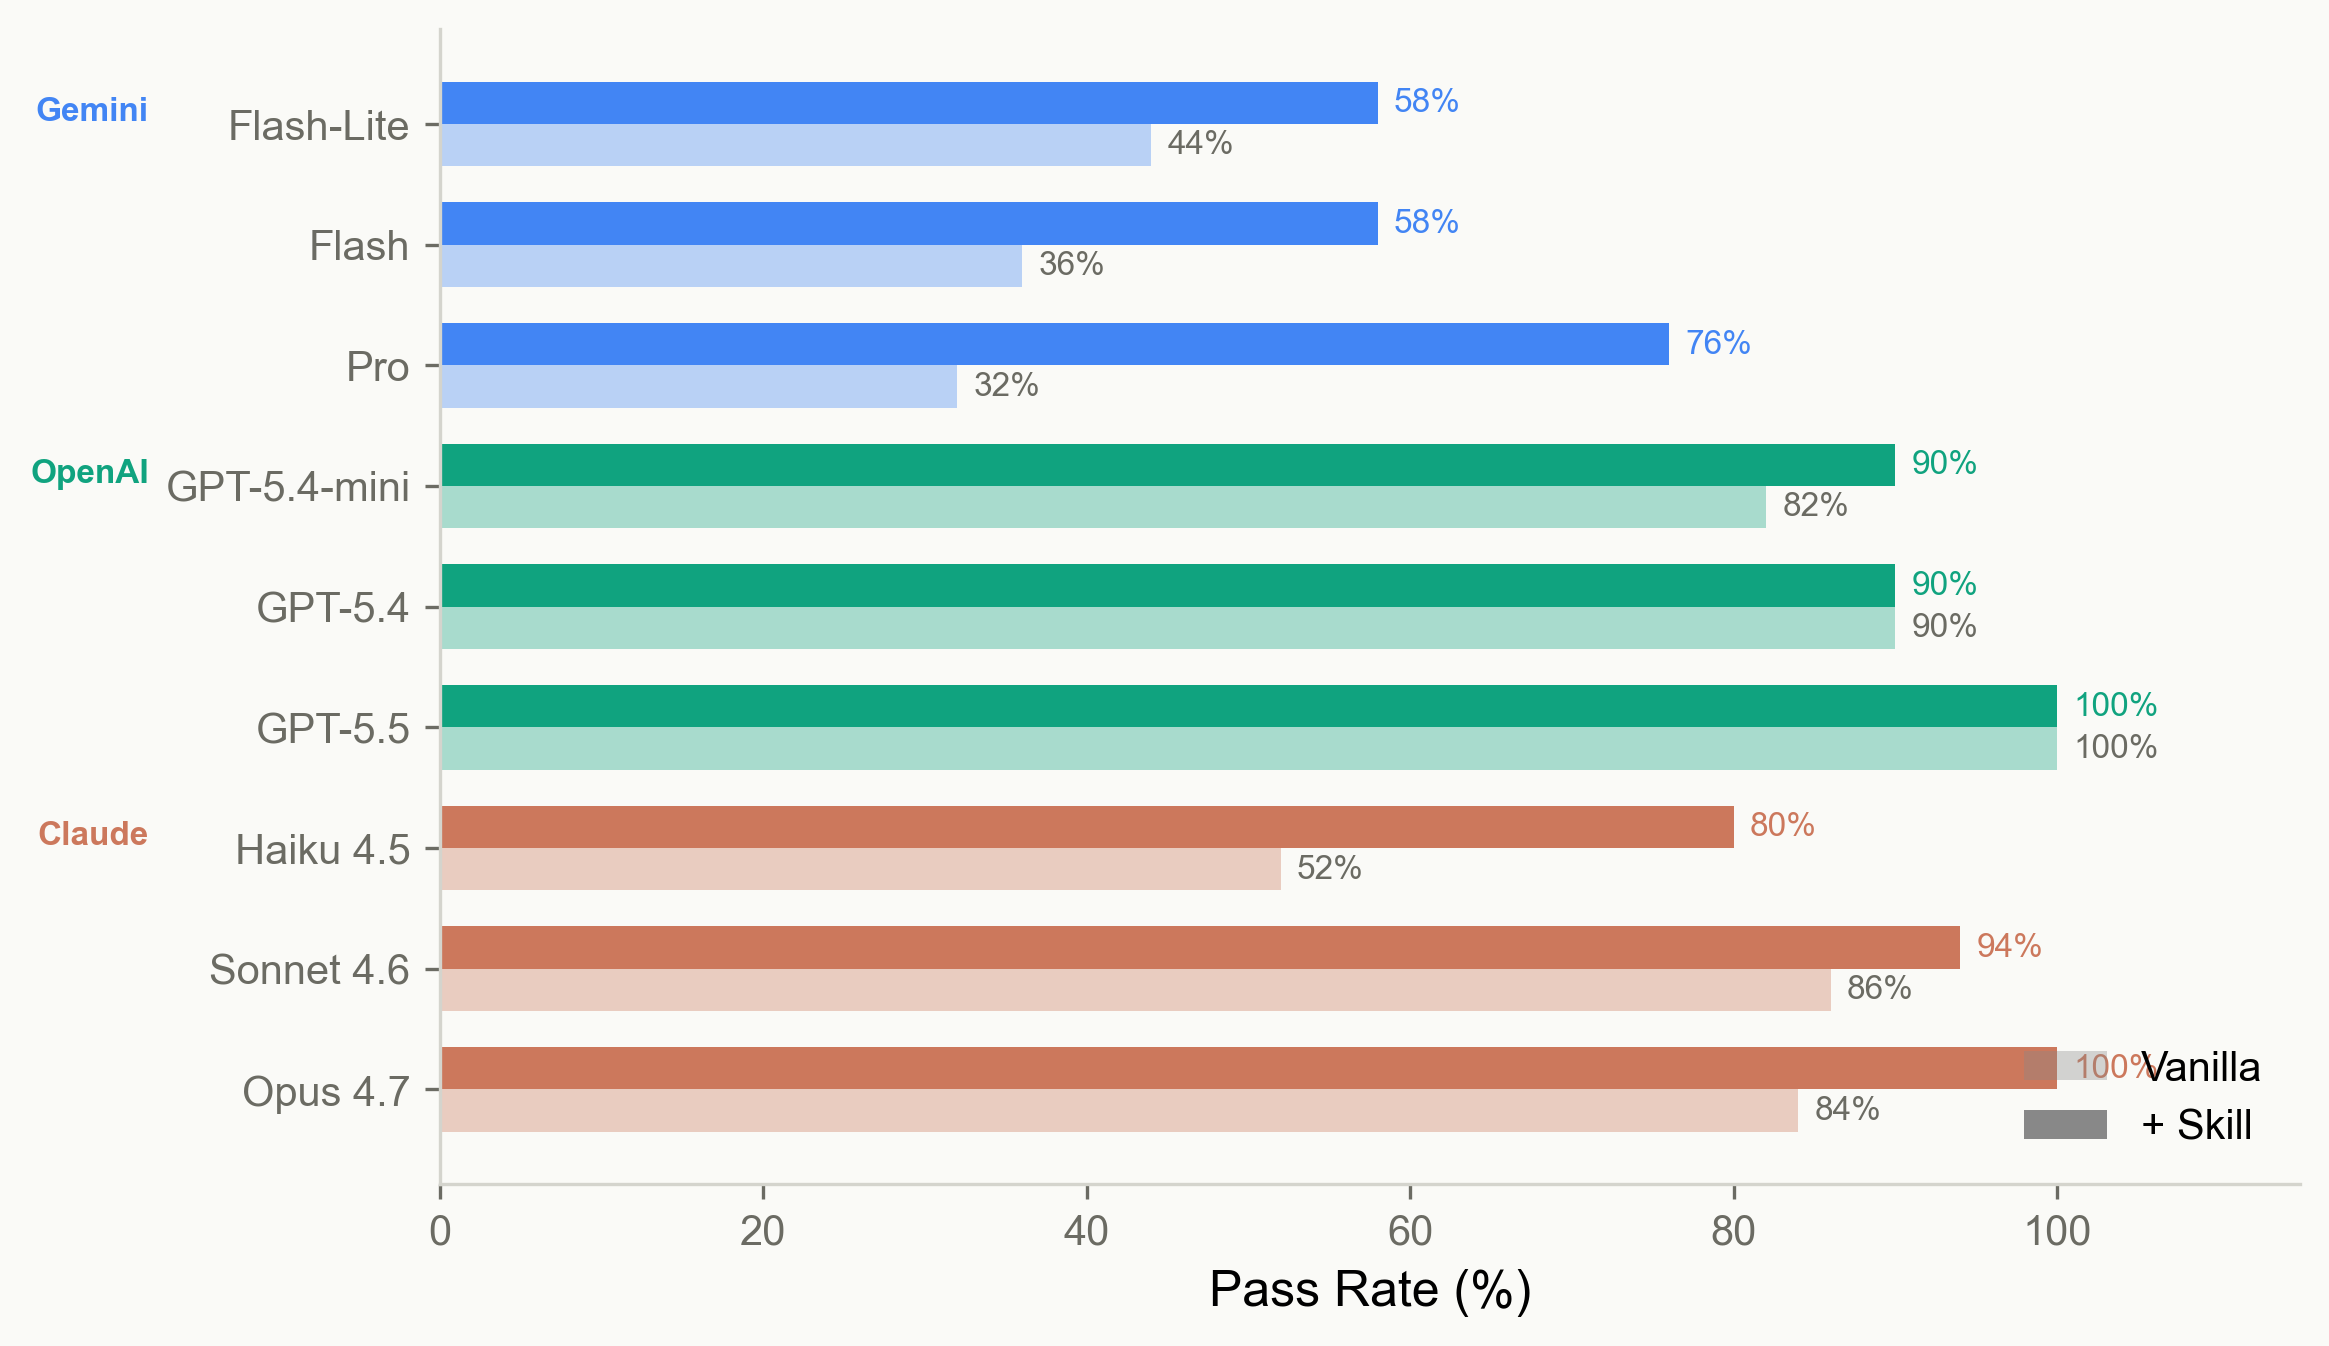
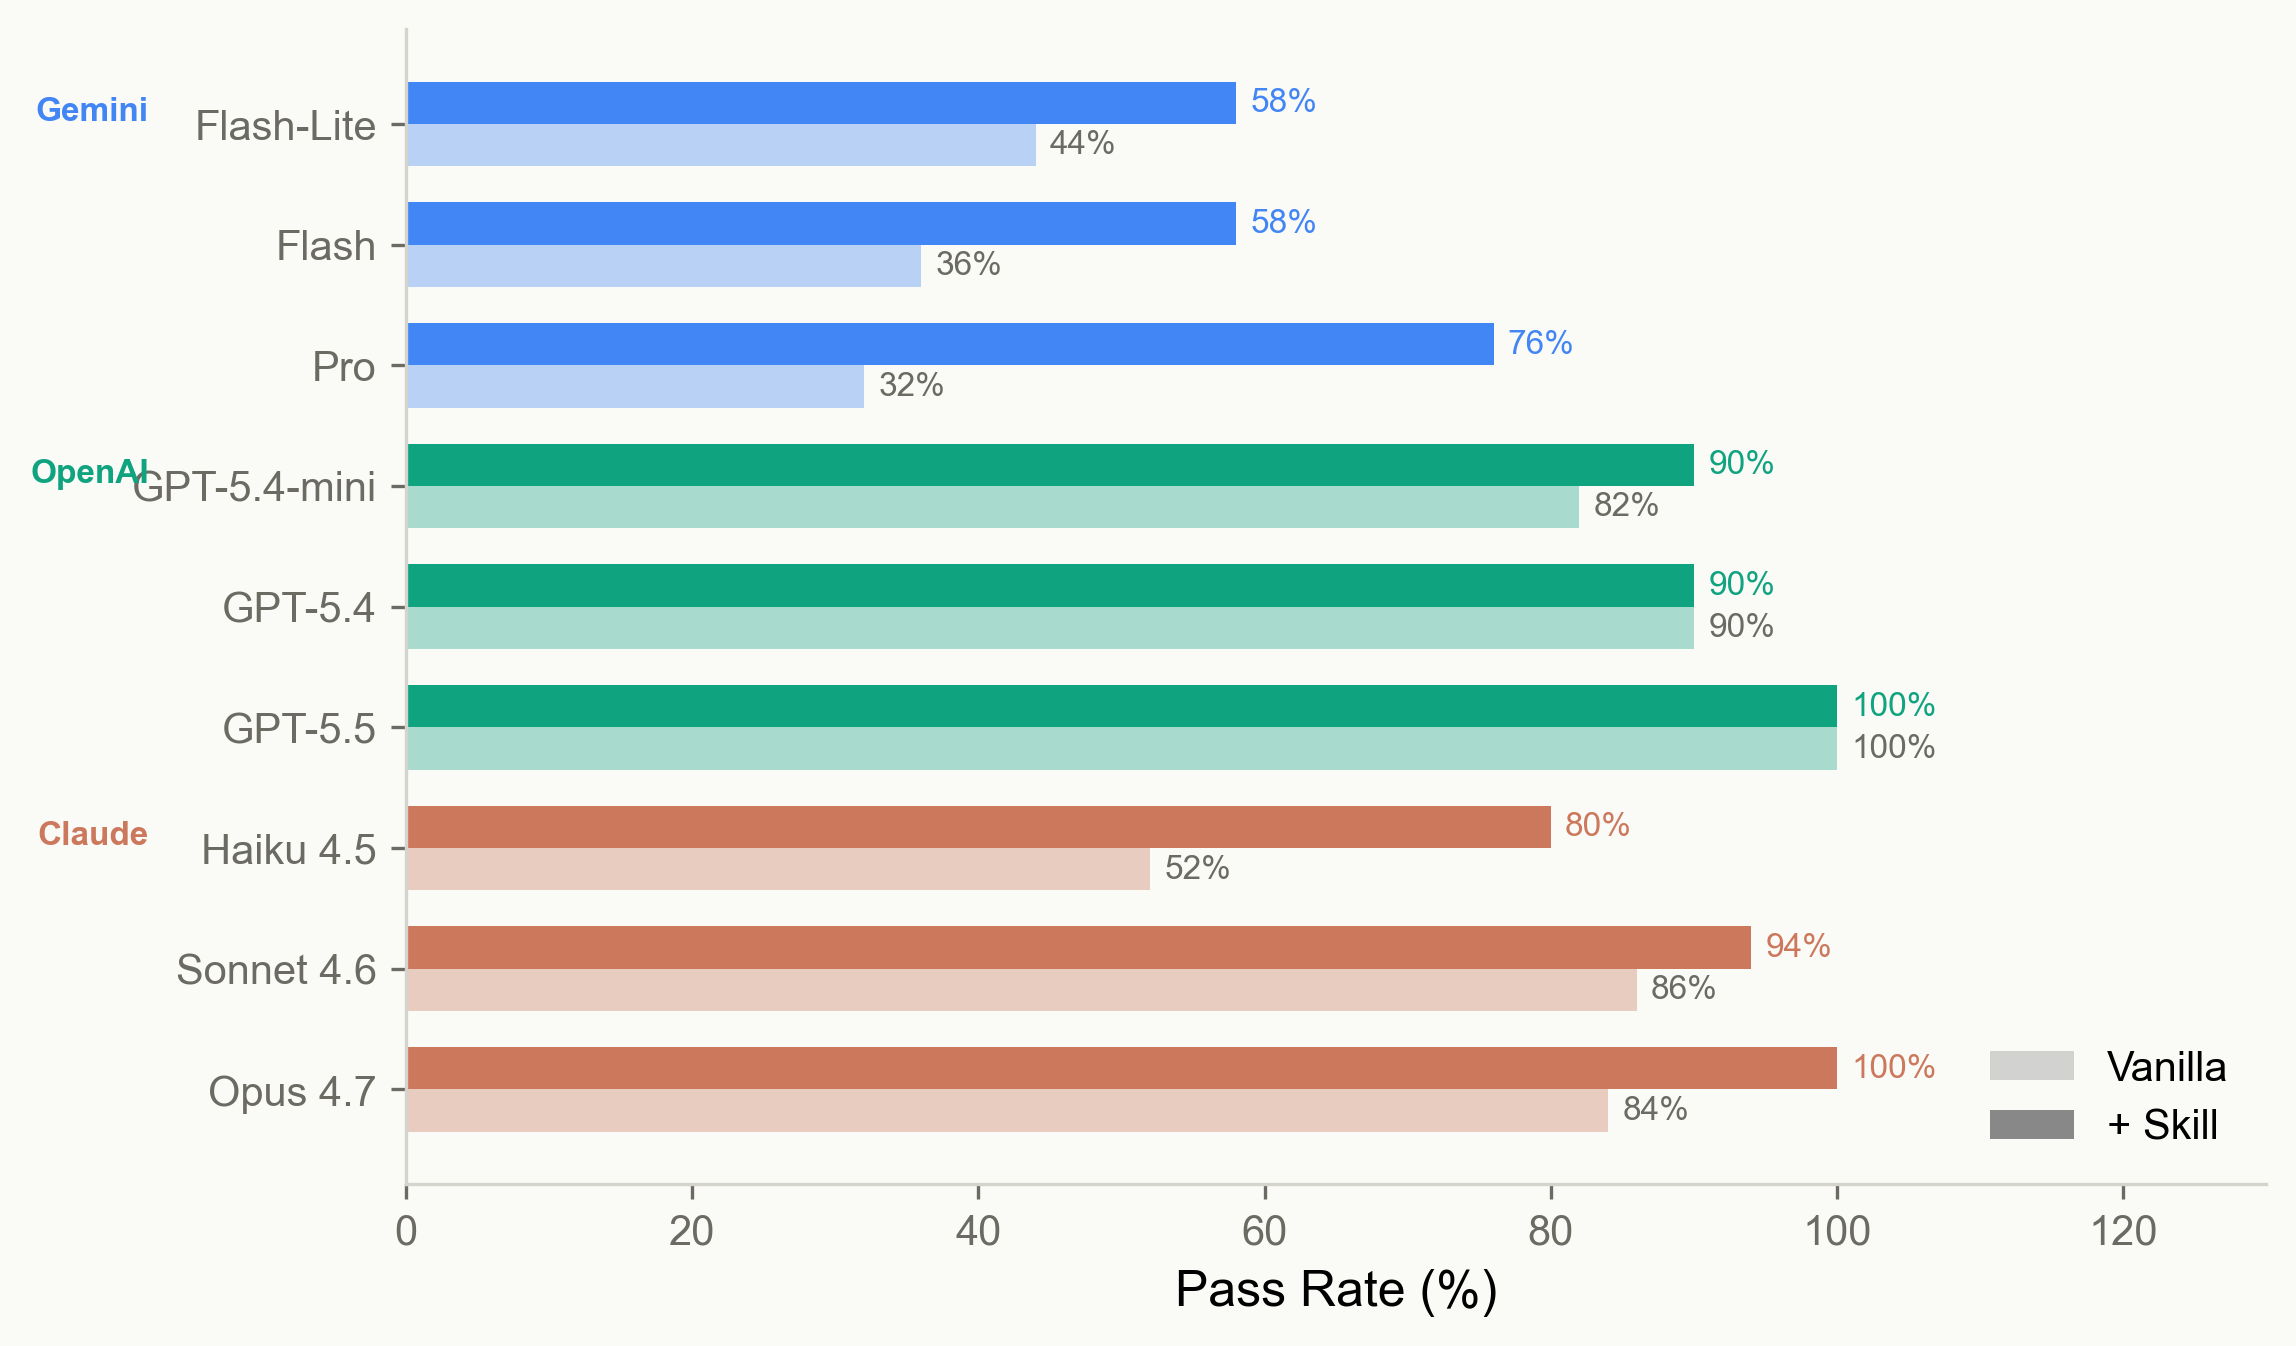
Fix humanizer benchmark: bar left-align, KOR/ENG toggle, wider barplot margin

diff --git a/skills/humanizer_kor/benchmark/benchmark_report.html b/skills/humanizer_kor/benchmark/benchmark_report.html
@@ -24,6 +24,7 @@ strong{font-weight:600}
 .dp{color:var(--green)} .dn{color:var(--red)}
 
 .bar{display:inline-block;height:12px;border-radius:2px;vertical-align:middle;margin-right:4px}
+.tbl td:has(.bar){text-align:left}
 .insight{border-top:2px solid var(--ink);border-bottom:2px solid var(--ink);padding:1rem 0;margin:2rem 0}
 
 .tab-bar{display:flex;gap:0;border-bottom:1px solid var(--ink);margin-bottom:1rem}
@@ -57,12 +58,20 @@ strong{font-weight:600}
 .box-label.o{color:var(--red)}.box-label.h{color:var(--green)}
 .metrics{display:flex;gap:12px;font-size:.68rem;color:var(--muted);margin-bottom:6px;font-family:'JetBrains Mono',monospace;justify-content:center}
 .foot{display:grid;grid-template-columns:1fr auto;border-top:1px solid var(--rule);padding-top:.75rem;margin-top:3rem;font-size:.7rem;color:var(--muted)}
+.lang-toggle{position:absolute;top:2rem;right:2rem;display:flex;gap:0}
+.lang-btn{padding:4px 12px;font-size:.72rem;font-weight:600;border:1px solid var(--rule);cursor:pointer;background:#f5f5f0;color:var(--muted);font-family:'IBM Plex Sans KR',sans-serif}
+.lang-btn.active{background:var(--ink);color:var(--paper)}
+.lang-btn:first-child{border-radius:3px 0 0 3px}.lang-btn:last-child{border-radius:0 3px 3px 0}
 </style>
 </head>
-<body>
+<body style="position:relative">
+<div class="lang-toggle">
+  <div class="lang-btn active" onclick="setLang('ko')">KOR</div>
+  <div class="lang-btn" onclick="setLang('en')">ENG</div>
+</div>
 <h1>Humanizer Benchmark</h1>
 <p class="date">2026.05.14 &middot; Seokhyun Choung &middot; Original vs Humanized</p>
-<p>100개 AI 생성 한국어 단락(20개 장르)의 <strong>원문(Original)</strong>과 <strong>Humanized</strong> 전후 비교. AI-Tell Score <mark>54.85</mark> &rarr; <mark>1.04</mark> (98.1% 감소).</p>
+<p data-ko="100개 AI 생성 한국어 단락(20개 장르)의 <strong>원문(Original)</strong>과 <strong>Humanized</strong> 전후 비교. AI-Tell Score <mark>54.85</mark> &rarr; <mark>1.04</mark> (98.1% 감소)." data-en="Before/after comparison of 100 AI-generated Korean paragraphs (20 genres). AI-Tell Score <mark>54.85</mark> &rarr; <mark>1.04</mark> (98.1% reduction).">100개 AI 생성 한국어 단락(20개 장르)의 <strong>원문(Original)</strong>과 <strong>Humanized</strong> 전후 비교. AI-Tell Score <mark>54.85</mark> &rarr; <mark>1.04</mark> (98.1% 감소).</p>
 
 <div class="tab-bar">
   <div class="tab-btn active" onclick="switchTab('overview')">Overview</div>
@@ -71,7 +80,7 @@ strong{font-weight:600}
 </div>
 
 <div id="tab-overview" class="tab-content active">
-<h2>Summary</h2>
+<h2 data-ko="요약" data-en="Summary">Summary</h2>
 <table class="tbl">
 <tr><th></th><th class="r">AI-Tell Score</th><th class="r">Naturalness</th><th class="r">Fidelity</th><th class="r">Change %</th></tr>
 <tr><td class="lbl">Original</td><td class="r dn">54.85 <small>&sigma;=13.14</small></td><td class="r">2.91</td><td class="r">10.0</td><td class="r">0%</td></tr>
@@ -79,10 +88,10 @@ strong{font-weight:600}
 </table>
 
 <div class="insight">
-<p style="font-size:1.02rem;margin:0"><strong>AI-Tell Score 98.1% 감소</strong>, 자연스러움 2.91 &rarr; 9.21, 변경률 평균 27.92%.</p>
+<p style="font-size:1.02rem;margin:0" data-ko="<strong>AI-Tell Score 98.1% 감소</strong>, 자연스러움 2.91 &rarr; 9.21, 변경률 평균 27.92%." data-en="<strong>AI-Tell Score reduced 98.1%</strong>, Naturalness 2.91 &rarr; 9.21, avg change rate 27.92%."><strong>AI-Tell Score 98.1% 감소</strong>, 자연스러움 2.91 &rarr; 9.21, 변경률 평균 27.92%.</p>
 </div>
 
-<h2>Category Breakdown</h2>
+<h2 data-ko="카테고리 분석" data-en="Category Breakdown">Category Breakdown</h2>
 <table class="tbl">
 <tr><th>Cat</th><th>Name</th><th class="r">Original</th><th></th><th class="r">Humanized</th><th></th></tr>
 <tr><td style="font-weight:600">A</td><td class="lbl">Translation-ese</td><td class="r">2.2</td><td><span class="bar" style="width:96px;background:var(--red)"></span></td><td class="r dp">0</td><td><span class="bar" style="width:0px;background:var(--green)"></span></td></tr>
@@ -96,7 +105,7 @@ strong{font-weight:600}
 <tr><td style="font-weight:600">I</td><td class="lbl">Formal nouns</td><td class="r">1.37</td><td><span class="bar" style="width:60px;background:var(--red)"></span></td><td class="r dp">0</td><td><span class="bar" style="width:0px;background:var(--green)"></span></td></tr>
 <tr><td style="font-weight:600">J</td><td class="lbl">Visual decoration</td><td class="r">1.56</td><td><span class="bar" style="width:68px;background:var(--red)"></span></td><td class="r dp">0</td><td><span class="bar" style="width:0px;background:var(--green)"></span></td></tr>
 </table>
-<h2>Genre Breakdown</h2>
+<h2 data-ko="장르별 분석" data-en="Genre Breakdown">Genre Breakdown</h2>
 <table class="tbl">
 <tr><th>Genre</th><th class="r">N</th><th class="r">Orig Score</th><th class="r">Hum Score</th><th class="r">Orig Nat</th><th class="r">Hum Nat</th></tr>
 <tbody id="genre-body"></tbody>
@@ -104,7 +113,7 @@ strong{font-weight:600}
 </div>
 
 <div id="tab-heatmap" class="tab-content">
-<h2>AI-Tell Heatmap (100 Samples)</h2>
+<h2 data-ko="AI-Tell 히트맵 (100개 샘플)" data-en="AI-Tell Heatmap (100 Samples)">AI-Tell Heatmap (100 Samples)</h2>
 <div class="legend">
   <span><span class="legend-box" style="background:#bde0bd"></span>&le;5 Clean</span>
   <span><span class="legend-box" style="background:#fde8a0"></span>6-20 Moderate</span>
@@ -114,7 +123,7 @@ strong{font-weight:600}
 </div>
 
 <div id="tab-explorer" class="tab-content">
-<h2>Sample Explorer</h2>
+<h2 data-ko="샘플 탐색기" data-en="Sample Explorer">Sample Explorer</h2>
 <div class="filters">
   <label>Genre:</label><select id="fg" onchange="render()"><option value="">All</option></select>
   <label>Search:</label><input id="fs" type="text" placeholder="keyword..." oninput="render()" style="width:180px">
@@ -200,4 +209,12 @@ function render(){
   });
 }
 render();
+
+function setLang(lang) {
+  document.querySelectorAll('.lang-btn').forEach(b => b.classList.remove('active'));
+  document.querySelector('.lang-btn[onclick*="'+lang+'"]').classList.add('active');
+  document.querySelectorAll('[data-ko][data-en]').forEach(el => {
+    el.innerHTML = el.getAttribute('data-'+lang);
+  });
+}
 </script></body></html>
